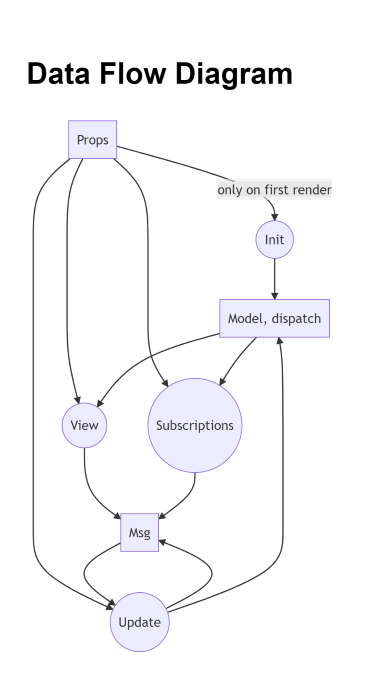
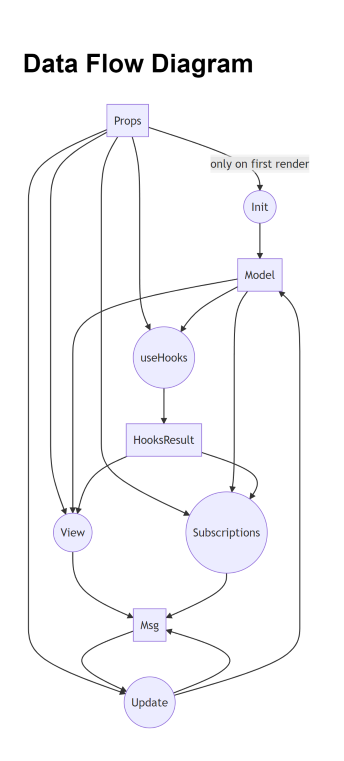
doc: update dfd

diff --git a/doc/dev/DataFlowDiagram.md b/doc/dev/DataFlowDiagram.md
@@ -4,16 +4,19 @@
 graph TD
     p[Props]
     i((Init))
-    m[Model, dispatch]
+    m[Model]
     msg[Msg]
+    h((useHooks))
+    H[HooksResult]
     u((Update))
     v((View))
     s((Subscriptions))
 
     p -- only on first render --> i
-    p --> v & s & u
+    p --> v & s & u & h
     i --> m
-    m --> v & s
+    m --> v & s & h
+    h --> H --> v & s
     v & s --> msg
     msg --> u
     u --> msg & m
